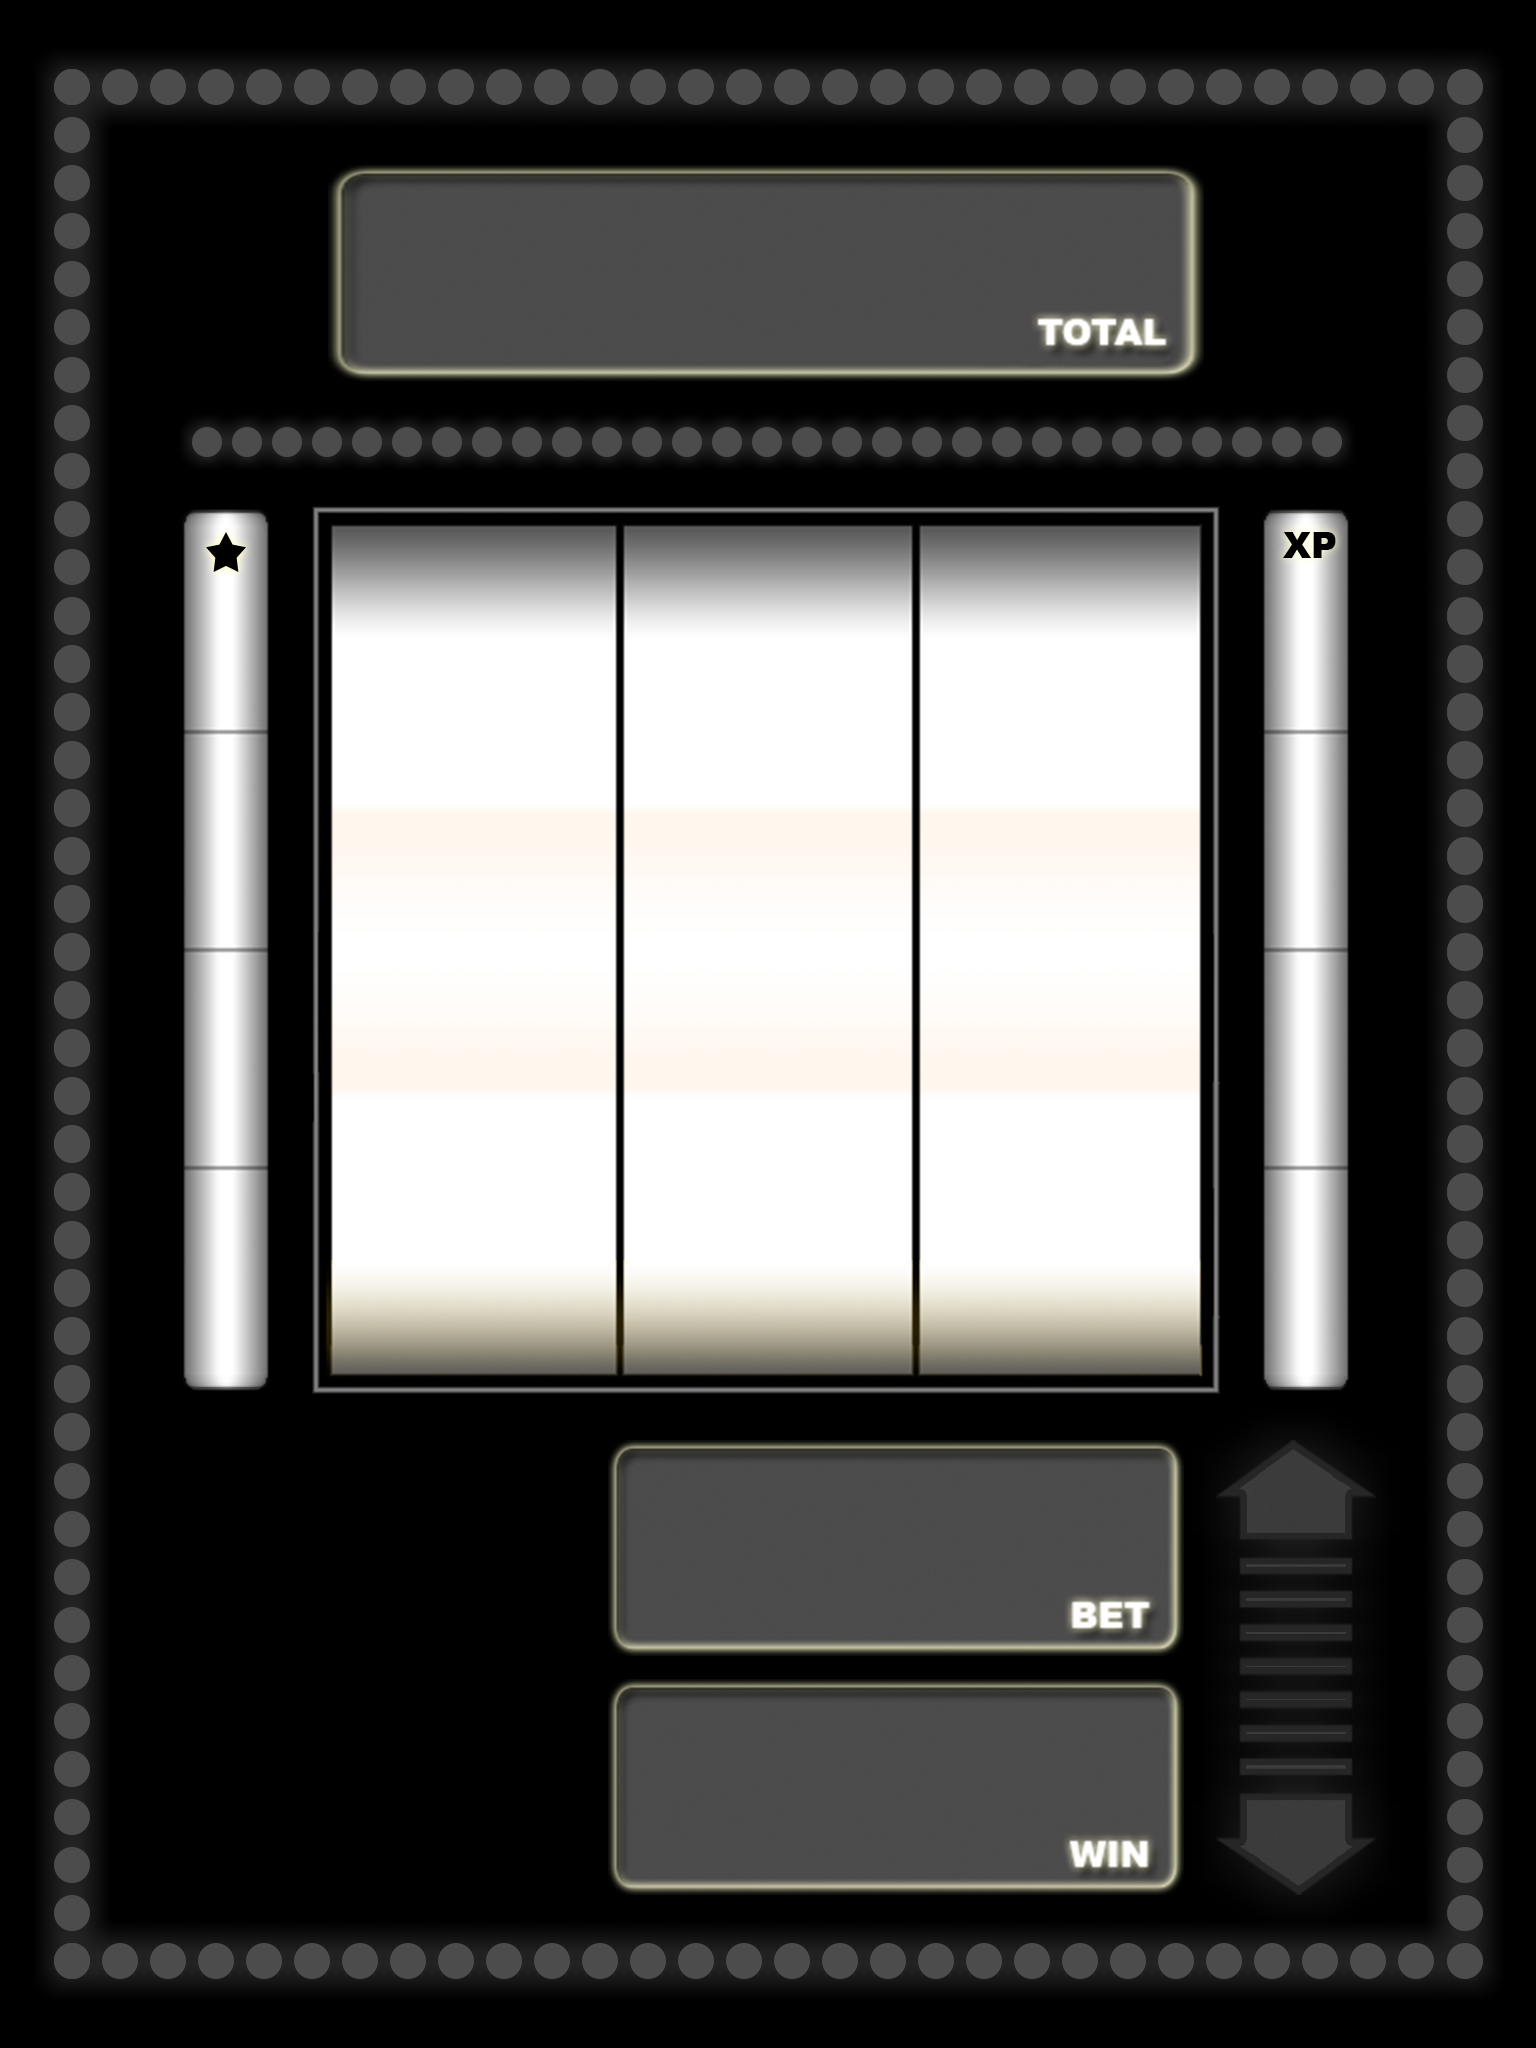
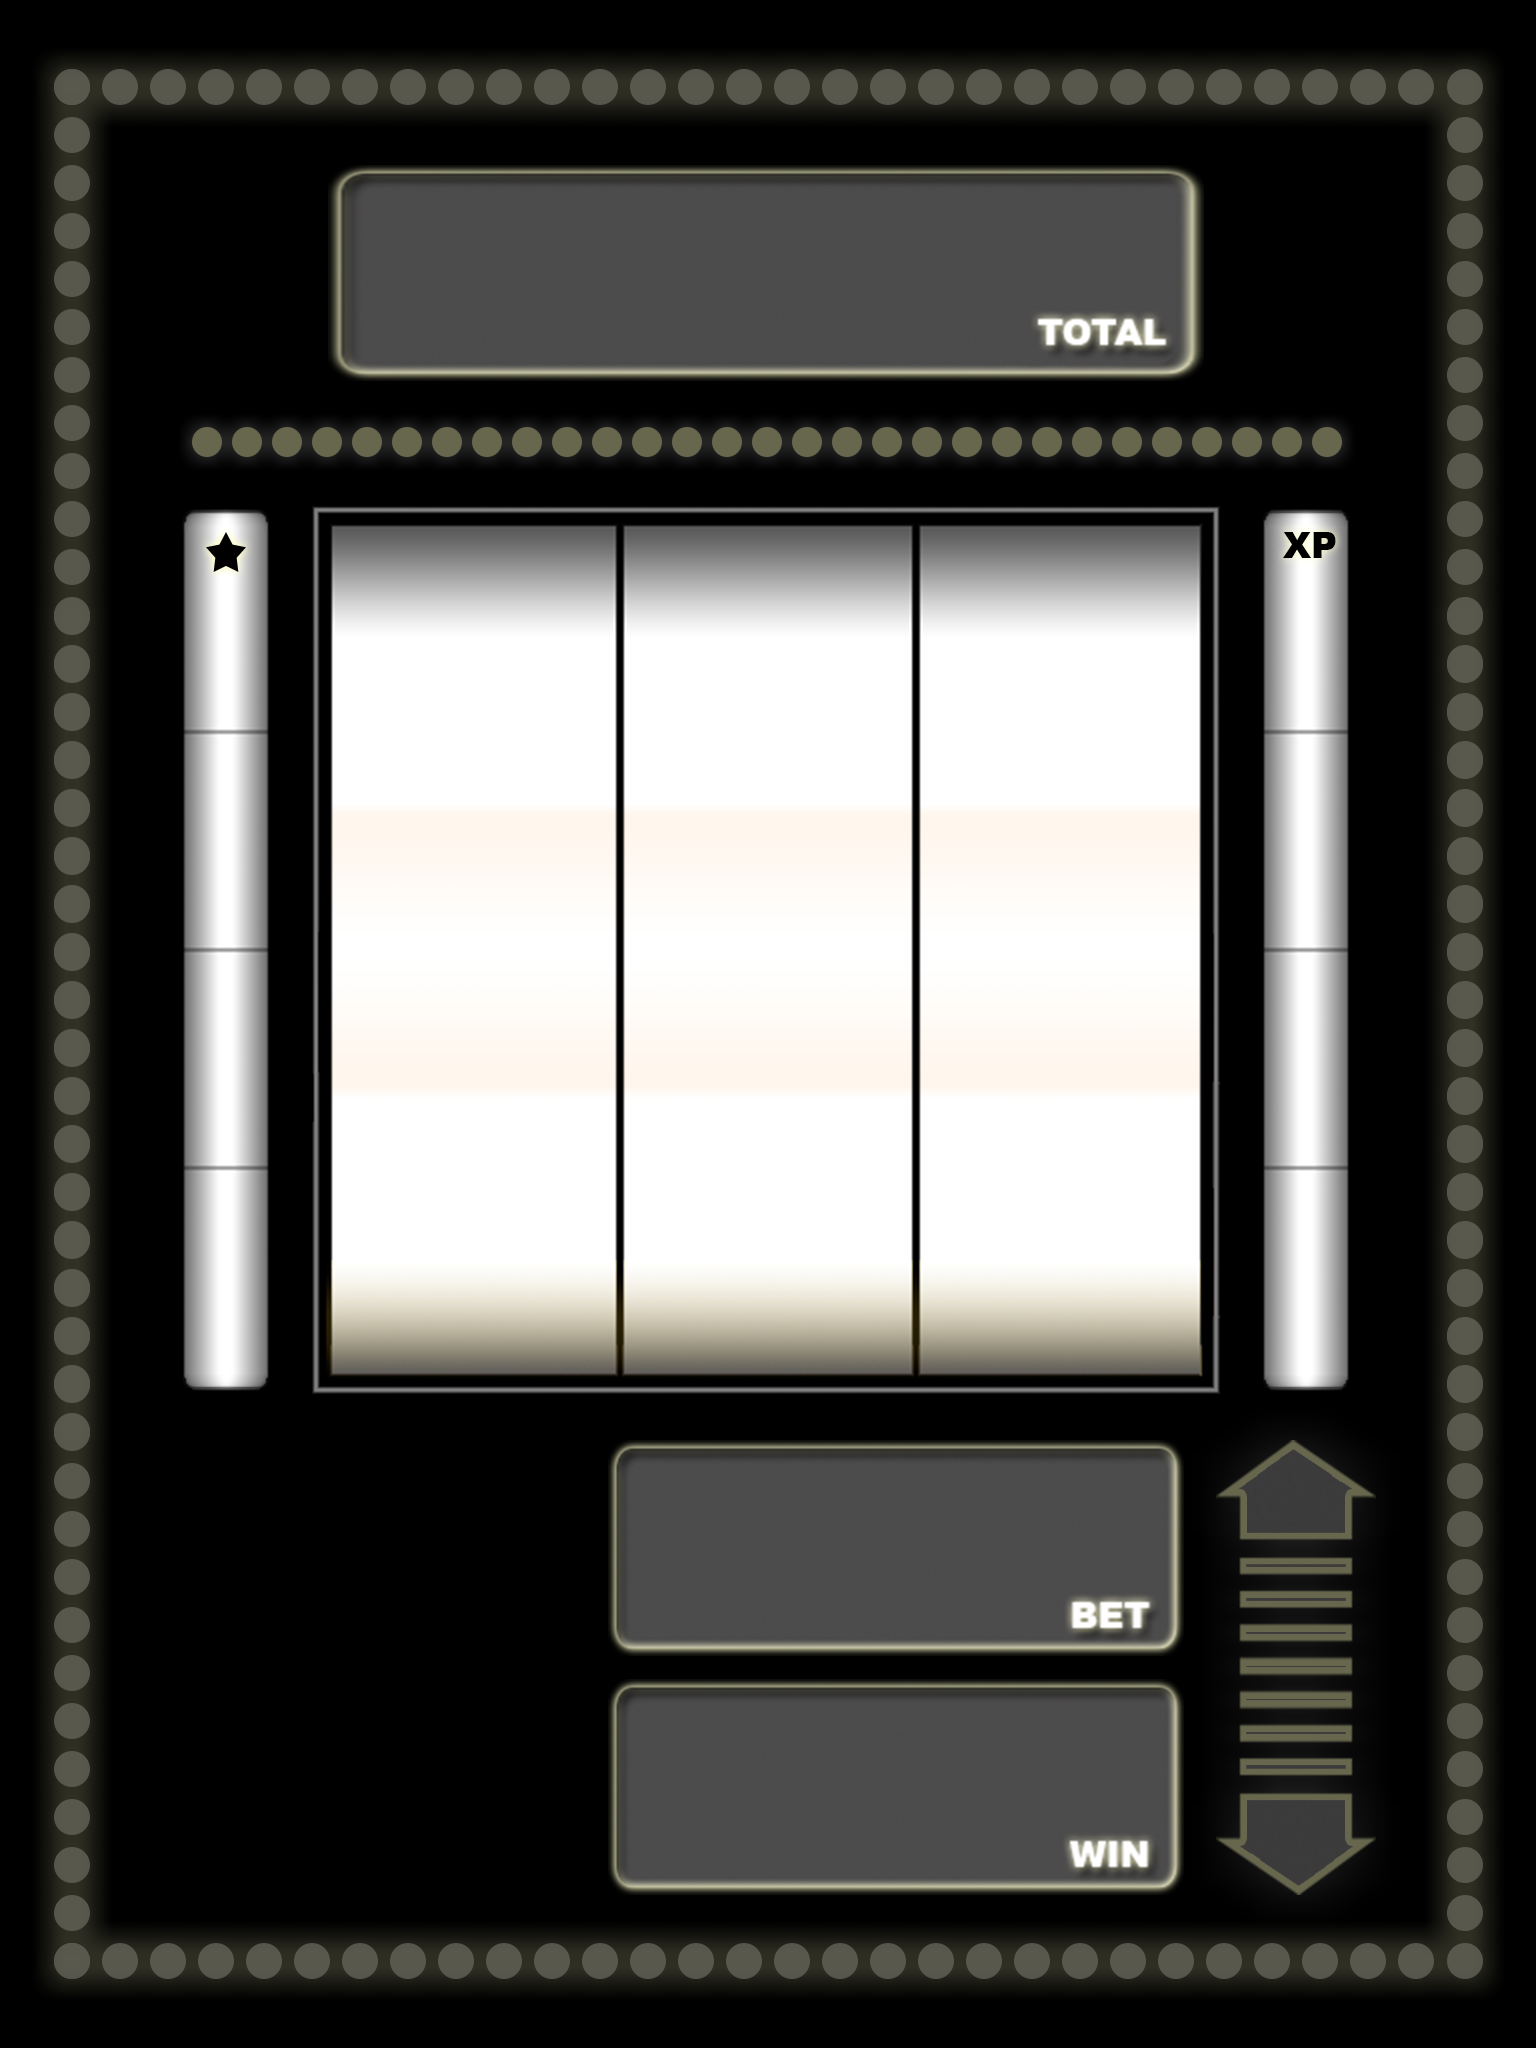
UI Improvement, Help screen added
slightly changed the user interface to look less dull by changing the
main colour of grey to a dark gold colour. help screen has also been
added with information on the game mechanics

diff --git a/Fruit Machine Game/Fruit Machine Game/MainMenu.m b/Fruit Machine Game/Fruit Machine Game/MainMenu.m
@@ -17,7 +17,7 @@
     int deviceTag, scaleFactor;
     CGSize win;
     
-    CCSprite *optionBar;
+    CCSprite *optionBar, *help;
     CCMenu *menu;
     CCMenuItemSprite *mute;
 }
@@ -112,7 +112,9 @@
         
         win = [[CCDirector sharedDirector] winSize];
         
-         [SimpleAudioEngine sharedEngine].enabled = NO;
+        [SimpleAudioEngine sharedEngine].enabled = NO;
+        
+        help = NULL;
         
         [self setDeviceTag];
         
@@ -170,10 +172,10 @@
     
     
     if (![[NSUserDefaults standardUserDefaults] integerForKey:MUTE_DATA] || [[NSUserDefaults standardUserDefaults] integerForKey:MUTE_DATA] == UNMUTE) {
-    
+        
         file = [NSString stringWithFormat:@"%@%@", @"muteOff", [self getImageFileSuffix]];
         select = [CCSprite spriteWithFile:file];
-    
+        
         file = [NSString stringWithFormat:@"%@%@", @"muteOn", [self getImageFileSuffix]];
         unselect = [CCSprite spriteWithFile:file];
         unselect.color = ccc3(MENU_R, MENU_G, MENU_B);
@@ -204,7 +206,7 @@
     
     
     file = [NSString stringWithFormat:@"%@%@", @"reset", [self getImageFileSuffix]];
-
+    
     select = [CCSprite spriteWithFile:file];
     unselect = [CCSprite spriteWithFile:file];
     unselect.color = ccc3(MENU_R, MENU_G, MENU_B);
@@ -249,7 +251,7 @@
     
     // the user clicked Reset
     if (buttonIndex == 0) {
-      
+        
         NSString *domainName = [[NSBundle mainBundle] bundleIdentifier];
         [[NSUserDefaults standardUserDefaults] removePersistentDomainForName:domainName];
         [[NSUserDefaults standardUserDefaults] synchronize];
@@ -267,7 +269,22 @@
 
 - (void) showHelp {
     
-    [self playSoundEffect:TOUCH];
+    if (help == NULL) {
+        
+        [self playSoundEffect:TOUCH];
+        
+        NSString *file = [NSString stringWithFormat:@"%@%@", @"help", [self getBackgroundFileSuffix]];
+        
+        help = [CCSprite spriteWithFile:file];
+        
+        help.position = ccp(win.width/2, win.height/2);
+        
+        help.opacity = 0;
+        
+        [self addChild:help];
+        
+        [help runAction:[CCFadeIn actionWithDuration:0.1]];
+    }
 }
 
 - (void) mute {
@@ -353,11 +370,20 @@
     CGPoint touchLocation = [touch locationInView:[touch view]];
     touchLocation = [[CCDirector sharedDirector] convertToGL:touchLocation];
     
-    if (touchLocation.y < win.height/2) {
+    if (help == NULL) {
+        
+        if (touchLocation.y < win.height/2) {
+            
+            [self playSoundEffect:TOUCH];
+            [[CCDirector sharedDirector] replaceScene:[CCTransitionCrossFade transitionWithDuration:1.0 scene:[MainGameScene scene]]];
+            
+        }
+        
+    } else {
         
         [self playSoundEffect:TOUCH];
-        [[CCDirector sharedDirector] replaceScene:[CCTransitionCrossFade transitionWithDuration:1.0 scene:[MainGameScene scene]]];
-        
+        [self removeChild:help cleanup:YES];
+        help = NULL;
     }
 }
 
